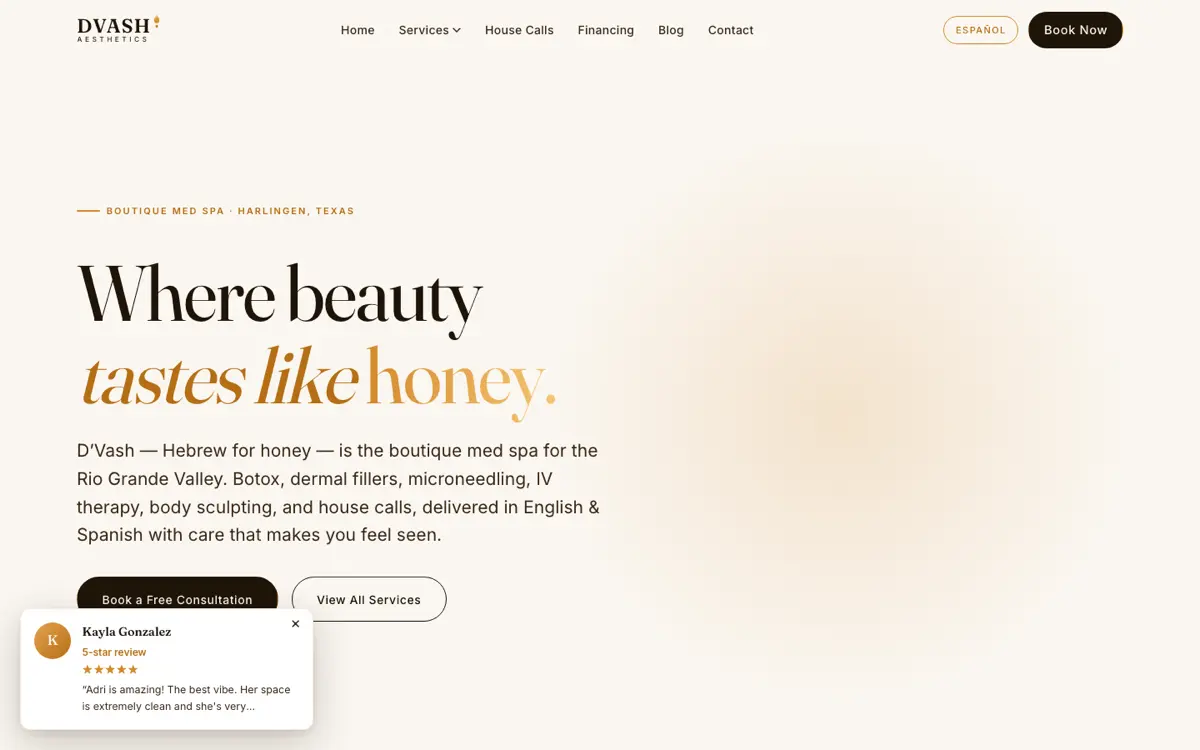
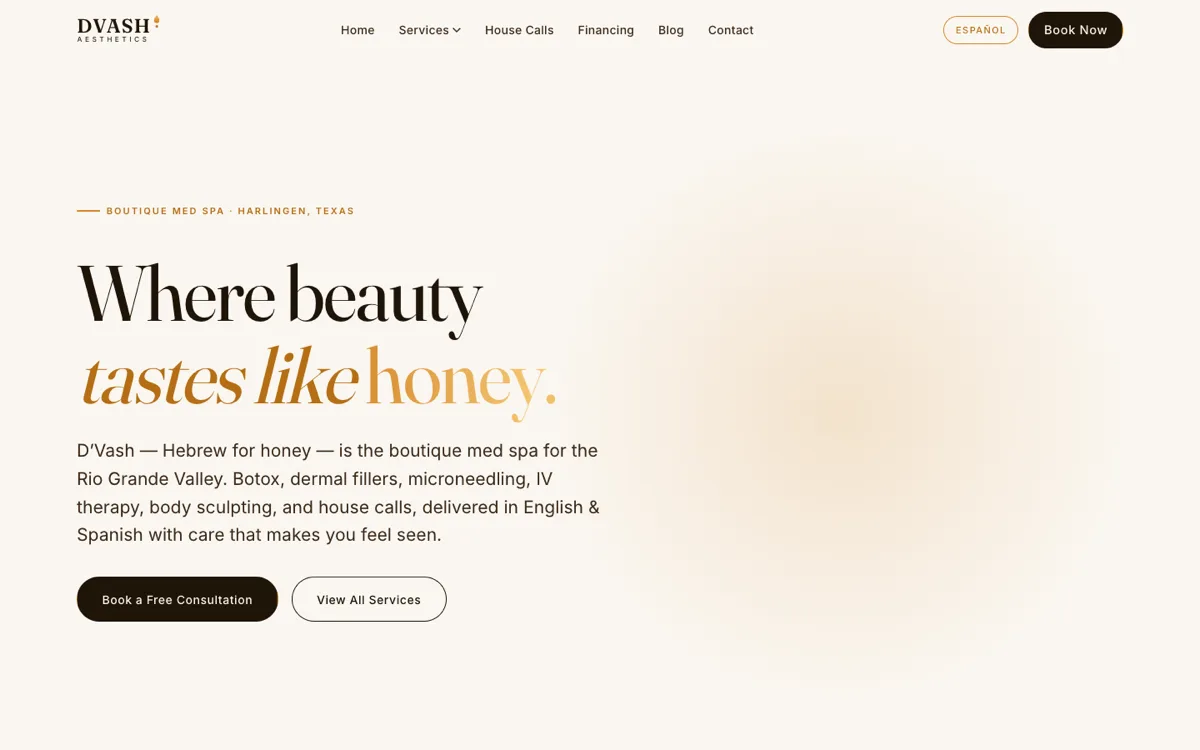
Hero: show Belleza De Oro, Us To You and D'Vash Aesthetics
Replaces the CCL Premium Foam and Mac's Dove Hunts cards with beauty and
aesthetics clients, so medspa owners see work like theirs first. Fresh
1200x750 captures of Belleza De Oro and D'Vash; the unused Premium Foam
and Mac's Dove screenshots are removed.

Changed region(s): [[0.0, 0.7973, 0.2775, 1.0]]

diff --git a/components/home/WorkStack.tsx b/components/home/WorkStack.tsx
@@ -14,10 +14,10 @@ import Image from "next/image";
  */
 const SITES = [
   {
-    name: "Premium Foam",
-    url: "https://www.cclcontracting.com/spray-foam-insulation/",
-    city: "Rio Grande Valley",
-    screenshot: "/work/premium-foam.webp",
+    name: "Belleza De Oro",
+    url: "https://www.bellezadeorosalon.com",
+    city: "Edinburg, TX",
+    screenshot: "/work/belleza-de-oro.webp",
   },
   {
     name: "Us To You Mobile Health",
@@ -26,10 +26,10 @@ const SITES = [
     screenshot: "/work/us-to-you-mobile-health.webp",
   },
   {
-    name: "Mac's Dove Hunts",
-    url: "https://www.macsdovehunts.com",
-    city: "Mercedes, TX",
-    screenshot: "/work/macs-dove-hunts.webp",
+    name: "D'Vash Aesthetics",
+    url: "https://www.dvashaesthetics.com",
+    city: "Harlingen, TX",
+    screenshot: "/work/dvash-aesthetics.webp",
   },
 ] as const;
 
